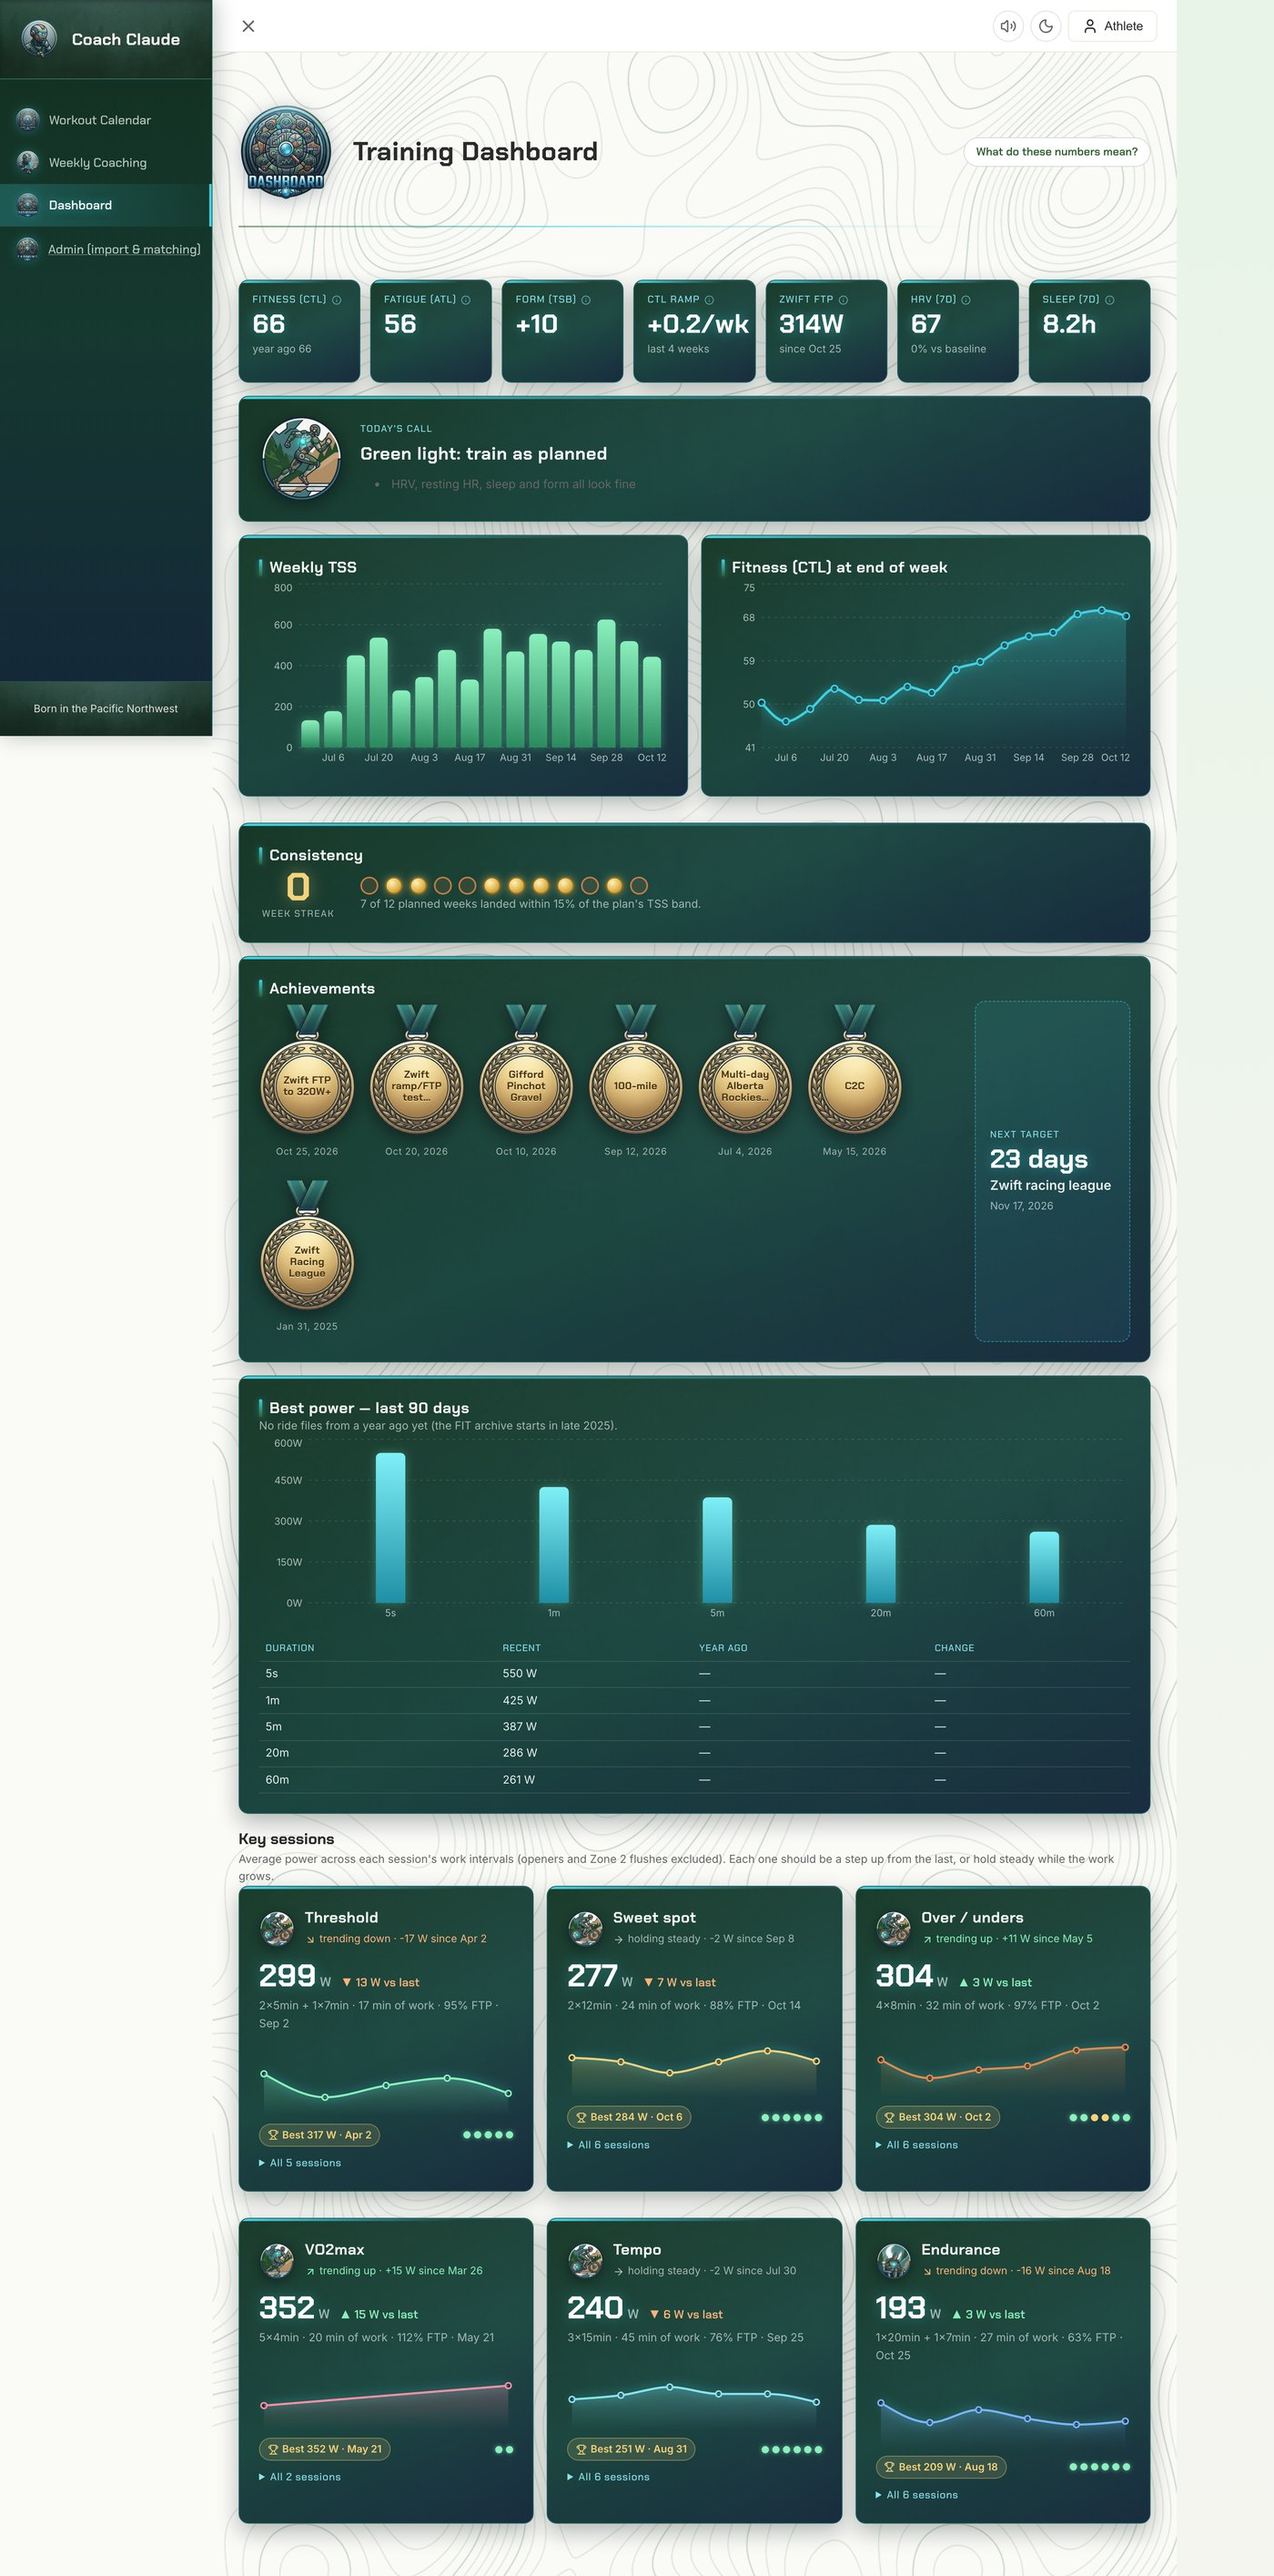
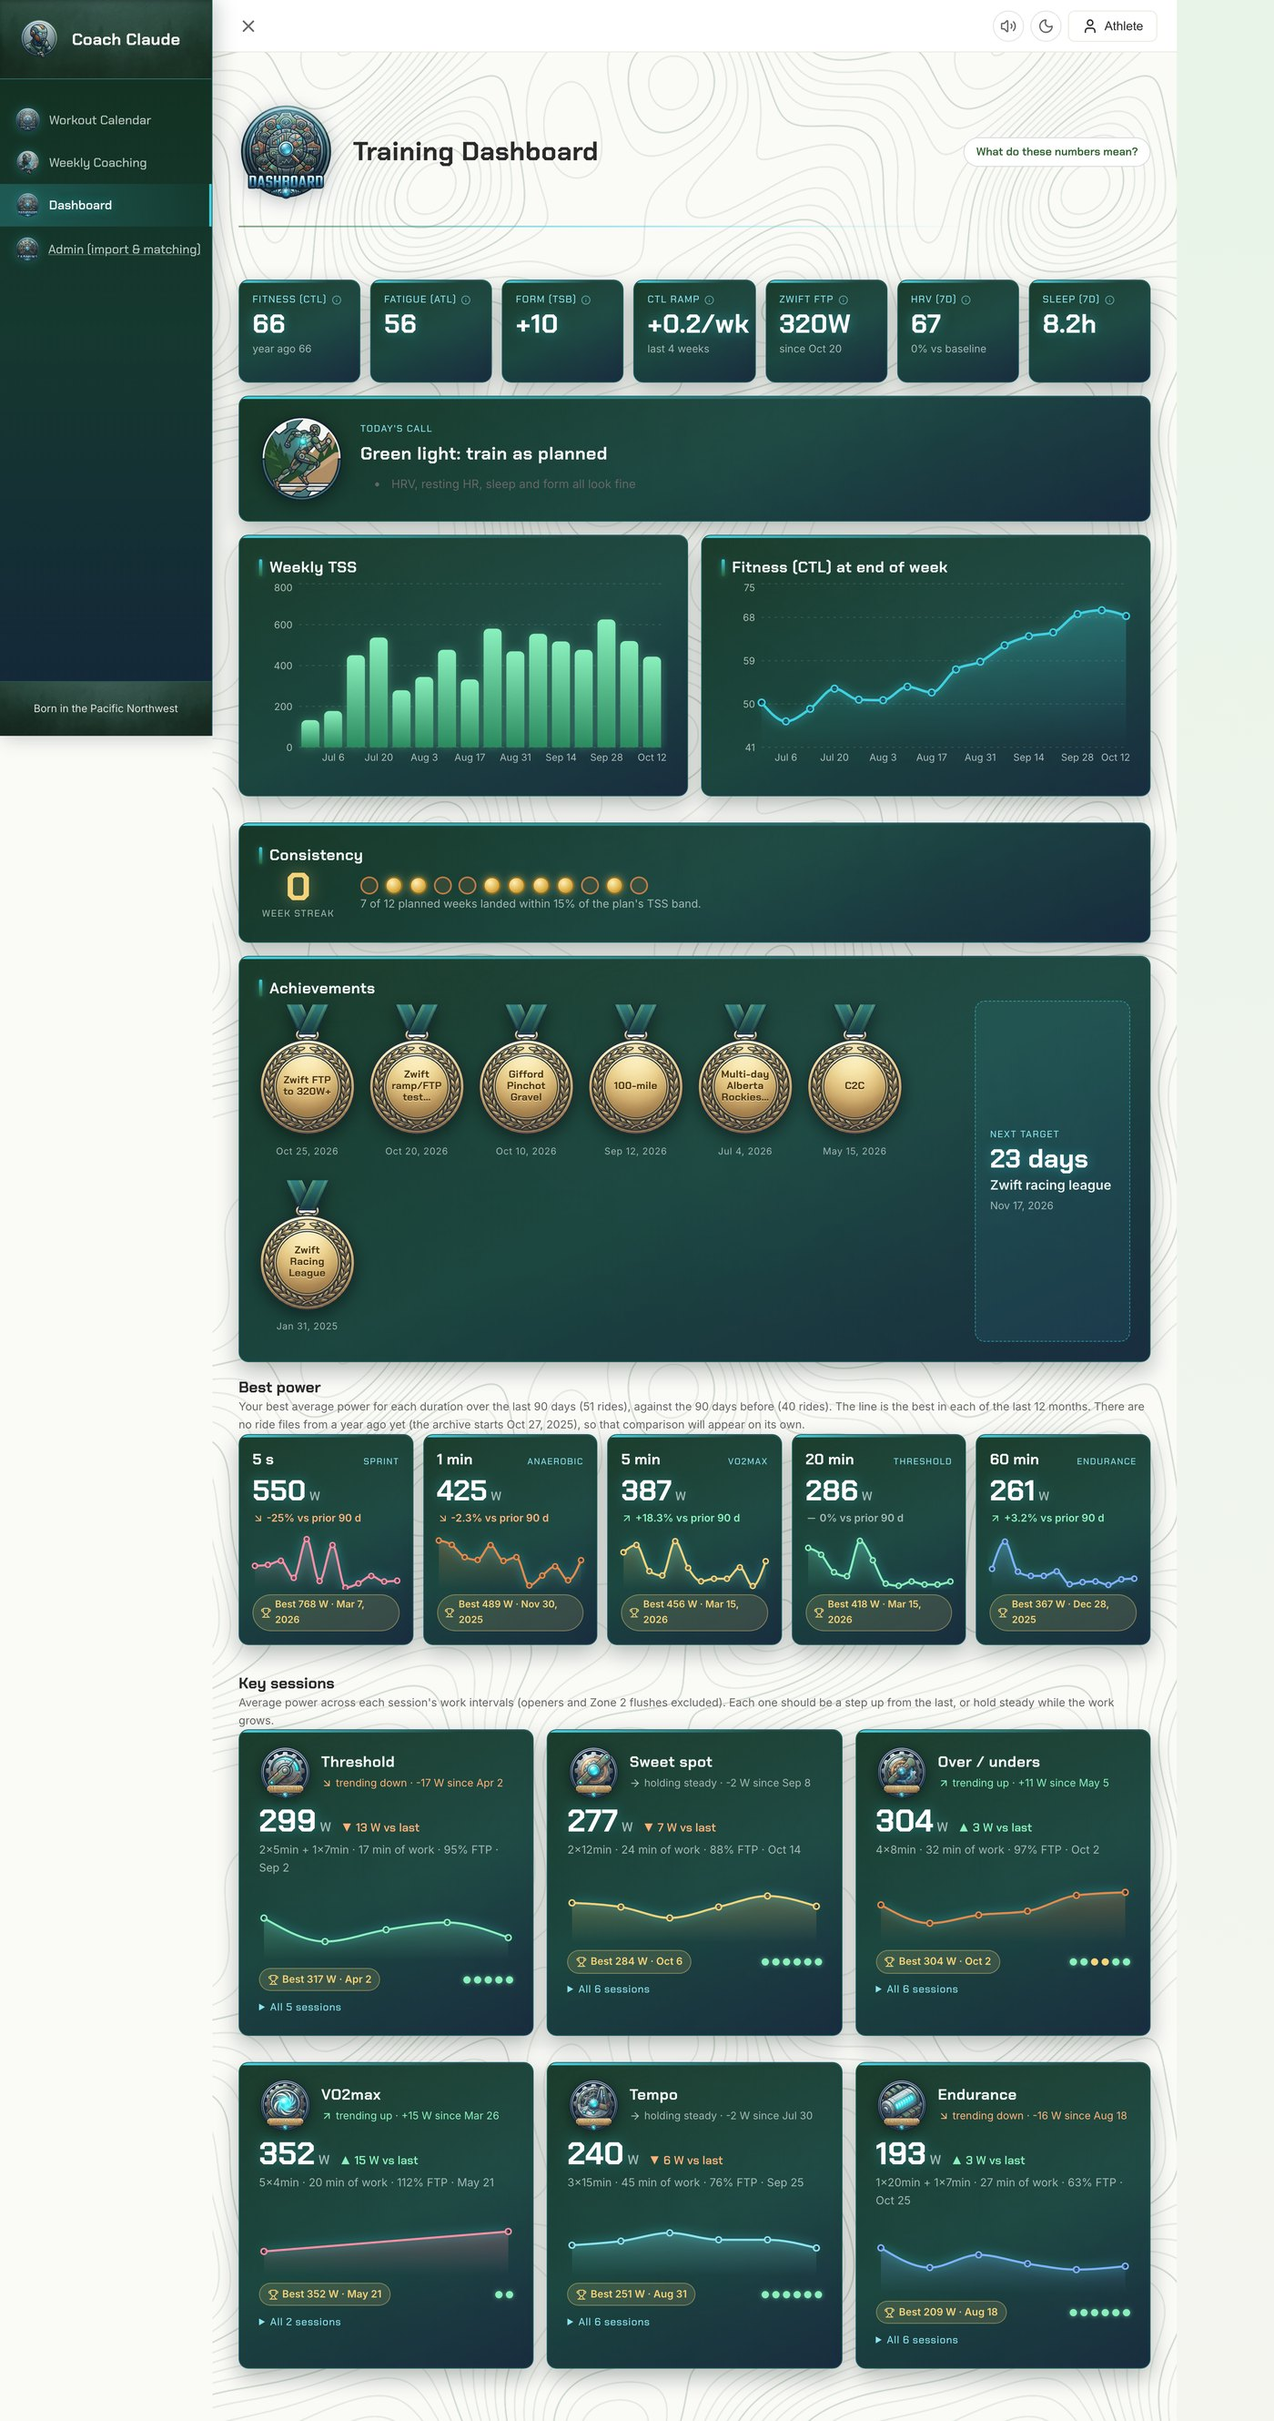
README: best power, interval hover, FTP changepoint; fresh screenshots and counts

Changed region(s): [[0.0, 0.0312, 0.9214, 0.9989], [0.0, 0.0, 0.1536, 0.1249], [0.7679, 0.437, 0.86, 0.4994]]

diff --git a/README.md b/README.md
@@ -33,7 +33,7 @@ It began as a weekend project in January 2025. I rebuilt it in October 2026 afte
 
 > **The principle the rebuild is built on:** compute everything that can be computed. Fitness, fatigue, ramp rate, execution quality and FTP are deterministic. The language model reasons, asks questions and explains, but it works inside numbers it is handed and never grades or invents them.
 
-| 21 months | 762 | 738 | 5,898 | 837 | 89 |
+| 21 months | 762 | 738 | 5,898 | 837 | 106 |
 |:---:|:---:|:---:|:---:|:---:|:---:|
 | continuous data, Feb 2025 → today | completed workouts | FIT files parsed (Zwift + Garmin) | daily biometric records (HRV · RHR · sleep · Body Battery) | prescribed sessions across 85 planned weeks | automated tests run on every push |
 
@@ -55,11 +55,19 @@ The training app is built to be used daily, on a laptop at the desk or a phone o
 | **Calendar** | The week at a glance with a forecast chip on each day, a badge per session type, execution scores, and `?week=` deep links to any week. Open a day for a hero header and the full session: target-vs-actual power chart, interval breakdown, and for strength and mobility days every movement with its own countdown timer. Any day has an **Ask the coach** thread for fueling, substitutions or "what is this movement?" |
 | **Weekly review → coach** | Sunday starts with a review step (confirm each session against its planned workout), then the coaching conversation, then the saved plan, which becomes Zwift files. The coach has an avatar that rocks and sends out rings while it answers; a referee whistle sounds when the plan is saved (there is a mute switch). |
 | **Dashboard** | *Today's call* (green light, easy or rest, from readiness and form), the KPI tiles, weekly load and fitness charts, a **consistency** ribbon, **achievements** as medals with a countdown to the next target, the power curve, and a card per kind of key session. |
+| **Power, by duration** | *Best power* shows the best 5 s / 1 min / 5 min / 20 min / 60 min over the last 90 days against the 90 before, the best ever, and a 12-month trend. The year-ago comparison fills itself in once the ride archive reaches back that far. Hover any interval on the target-vs-actual chart and the whole interval lights up with its target, what was ridden and how far off the band it was. |
 | **Self-explaining numbers** | Hover (or tap, or focus) any KPI tile for what it means, a plain-language reading of today's value, and a link to the **metric guide**: how each number is calculated here, how to read it, what the coach does with it, and where it misleads. |
 | **Look and feel** | Chakra Petch display type over Inter, a topographic page background, commissioned badge art for every section and session type, light and dark themes that follow the device, and quiet motion that respects reduced-motion settings. |
 
 <p align="center">
   <img src="docs/images/workout.jpg" alt="An opened workout: the cycling badge as a hero on a dark forest header, with the session title and type, minutes and TSS chips" width="100%">
+</p>
+
+<p align="center">
+  <img src="docs/images/interval-hover.jpg" alt="Hovering an interval on the target-vs-actual chart highlights the whole interval and shows its duration, target and what was ridden" width="88%">
+</p>
+<p align="center">
+  <sub>Hover an interval: the whole block lights up, with its target, what was ridden and whether it landed in the band.</sub>
 </p>
 
 <p align="center">
@@ -167,6 +175,13 @@ The app's FTP follows that value automatically. A Zwift FTP unchanged for 6 week
 </p>
 
 <p align="center">
+  <img src="docs/images/best-power.jpg" alt="Best power: five cards (5 s, 1 min, 5 min, 20 min, 60 min) with this window's best, the change against the previous window, a 12-month trend and the best ever" width="88%">
+</p>
+<p align="center">
+  <sub>Best power: this window against the last, a 12-month trend per duration, and the best ever.</sub>
+</p>
+
+<p align="center">
   <img src="docs/images/key-sessions.jpg" alt="Key sessions: a card per session type with latest average power, change since the last session, a trend line, best ever and execution dots" width="88%">
 </p>
 <p align="center">
@@ -262,7 +277,8 @@ Every one of these bugs was **silent**: a wrong key or column returned null, and
 - **UTC vs local time.** Garmin and Zwift record UTC, but TrainingPeaks days are Pacific. Evening commutes were attached to the next day's sessions. **Lesson:** convert to the athlete's local date before any join.
 - **A read path that wrote.** A weekly summary "helpfully" attached any same-day FIT file to sessions without one and saved the link. A sauna inherited a 4-hour gravel ride, and the coach saw 735 TSS for a 520 TSS week. **Lesson:** derived joins belong in one matcher; summaries must be read-only.
 - **Re-imports must keep identity.** The nightly re-import deletes and re-inserts rows. Without restoring ids and user decisions, it silently undid the athlete's Sunday review and detached analyses. **Lesson:** test idempotency by running everything twice.
-- **A mislabelled interval became a fake regression.** Intervals were tagged "work" by name, so a 1-minute opener and a Zone 2 flush counted as work. A 285 W sweet-spot session was recorded as 246 W, a 38 W "drop" that never happened. Work is now the sustained hard intervals judged by their prescribed targets, with a test on that exact session. **Lesson:** when a chart shows a surprise, check the inputs before believing the trend.
+- **A mislabelled interval became a fake regression.** Intervals were tagged "work" by name, so a 1-minute opener and a Zone 2 flush counted as work. A 276 W sweet-spot session was recorded as 246 W, a 30 W "drop" that never happened. Work is now the sustained hard intervals judged by their prescribed targets, with a test on that exact session. **Lesson:** when a chart shows a surprise, check the inputs before believing the trend.
+- **An average across a changepoint.** Zwift's FTP only changes at a ramp test, but the dashboard took the median of the last three rides, which straddled the test and read 314 W when the true value was 320 W. Rides before a test and rides after it are different populations; treat the test as a changepoint, and let the athlete confirm the value Zwift shows.
 - **Ask the data before tuning the prompt.** The "coaching doesn't progress" complaint looked like a prompt problem. It was a missing model of training load. Compute the state, then let the model reason over it.
 
 ---
@@ -284,7 +300,7 @@ cd frontend && npm install && npm run dev
 pytest -q && (cd frontend && npm test)
 ```
 
-Production deployment, rollback, and Windows/WSL stability notes are in the [runbook](docs/deployment/RUNBOOK.md). One-off maintenance (relinking FIT files, recomputing derived data) runs through `python -m src.utils.maintenance --help`.
+Production deployment, rollback, and Windows/WSL stability notes are in the [runbook](docs/deployment/RUNBOOK.md). Server addresses, usernames and folders are deliberately not in this repository: the deploy and sync scripts read them from a git-ignored `deploy.local.env` (template: [`deploy.local.env.example`](deploy.local.env.example)), and a test fails the build if one is committed. One-off maintenance (relinking FIT files, recomputing derived data) runs through `python -m src.utils.maintenance --help`.
 
 <details>
 <summary><b>Repository map</b></summary>
@@ -305,7 +321,7 @@ src/
   ui/             Streamlit admin
 frontend/         React 19 app: pages (calendar, coaching, dashboard, metric guide), components,
                   lib/ (metric glossary, readiness call, sounds, theme, weather)
-tests/            pytest suite (60) · frontend/src/**/*.test.js (29)
+tests/            pytest suite (71) · frontend/src/**/*.test.js (35)
 docs/             runbook, architecture notes, images
 ```
 </details>
